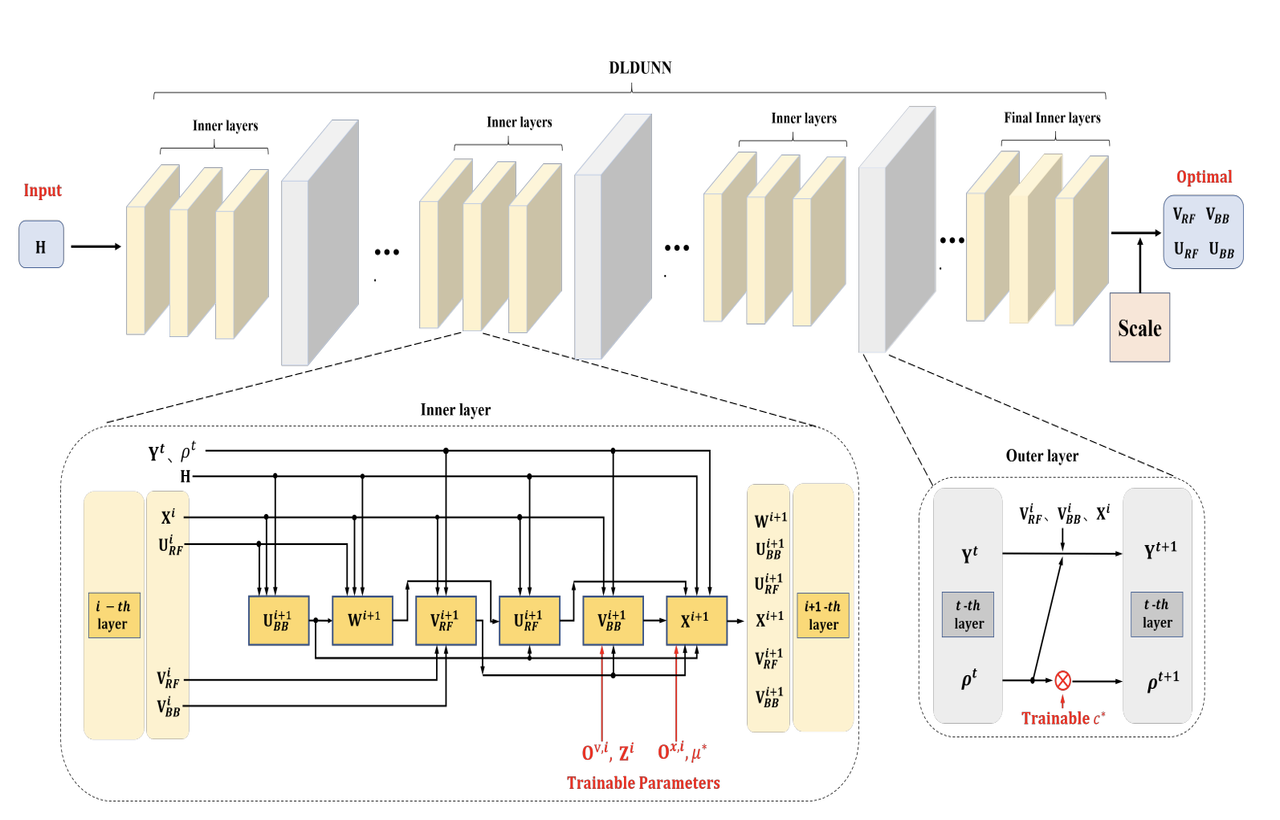
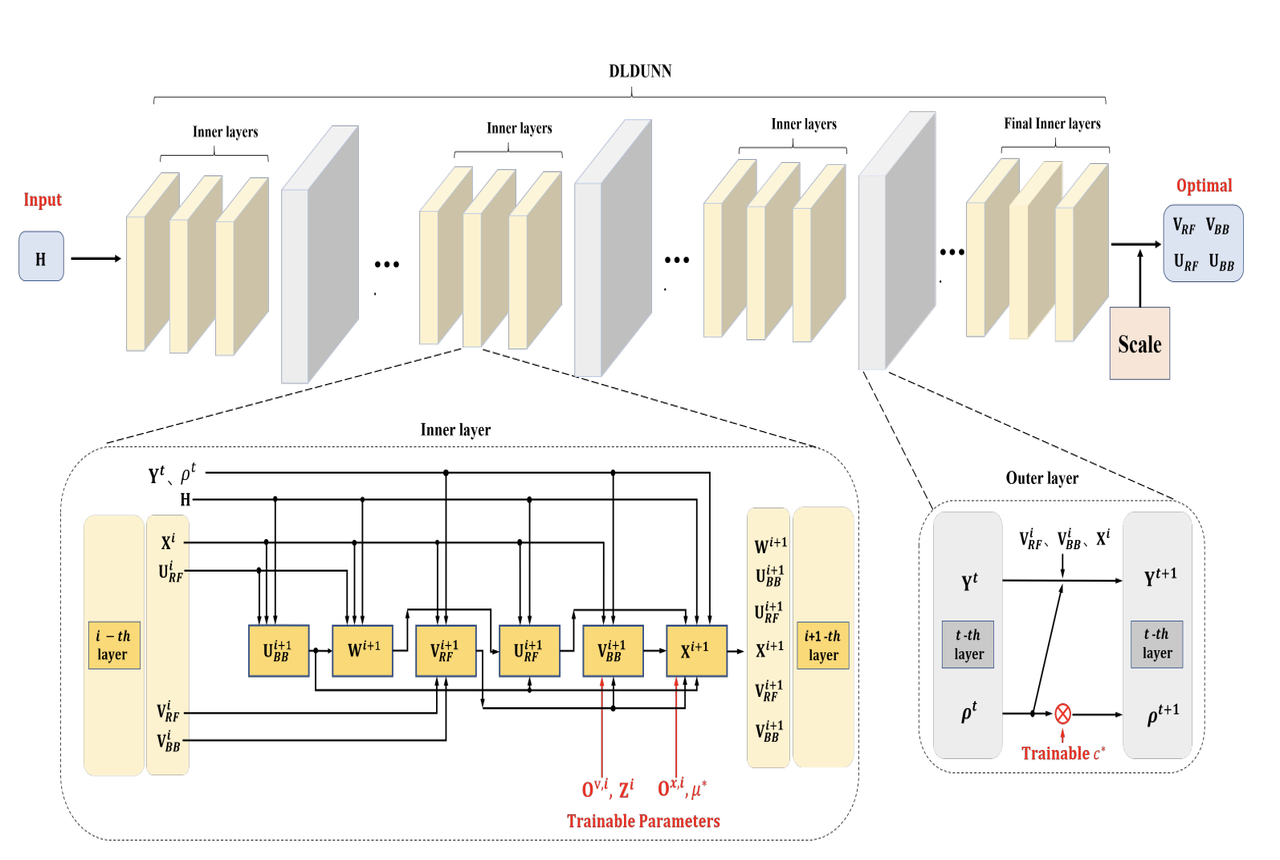
update

Changed region(s): [[0.1562, 0.6402, 0.2812, 0.6707], [0.3438, 0.7012, 0.375, 0.7317]]

diff --git a/index.html b/index.html
@@ -208,8 +208,11 @@
             <div class="col two left">
               <strong>[2] Panoptic NeRF: 3D-to-2D Label Transfer for Panoptic Urban Scene Segmentation </strong>
               <br />
-              <strong><u>Xiao Fu</u>*</strong>, Shangzhan Zhang*, Tianrun Chen, Yichong Lu, Lanyun Zhu, Xiaowei Zhou,
-              Andreas Geiger, <a style='color:#8F8F8F' href="https://yiyiliao.github.io/" target="_blank">Yiyi Liao<sup>†</sup> </a> 
+              <strong><u>Xiao Fu</u>*</strong>, Shangzhan Zhang*, Tianrun Chen, Yichong Lu,
+              <a style='color:#8F8F8F' href="https://lanyunzhu.site/" target="_blank">Lanyun Zhu</a>,
+              <a style='color:#8F8F8F' href="https://xzhou.me/" target="_blank">Xiaowei Zhou</a>,
+              <a style='color:#8F8F8F' href="http://www.cvlibs.net/" target="_blank">Andreas Geiger</a>, <a
+                style='color:#8F8F8F' href="https://yiyiliao.github.io/" target="_blank">Yiyi Liao<sup>†</sup> </a>
               <br />
               <div style="opacity:0.5;"> International Conference on 3D Vision <strong>(3DV)</strong>, 2022</div>
               <a href="https://arxiv.org/pdf/2203.15224.pdf" target="_blank">Paper</a> |
@@ -231,10 +234,19 @@
               <br />
               <strong>[1] Hybrid Precoding Design Based on Dual-Layer Deep-Unfolding Neural Network </strong>
               <br />
-              Guangyi Zhang*, <strong><u>Xiao Fu</u>*</strong>, Qiyu Hu<sup>†</sup>, Yunlong Cai, Guanding Yu
+              <a style='color:#8F8F8F' href="https://scholar.google.com/citations?user=EGRWj9YAAAAJ"
+                target="_blank">Guangyi Zhang*</a>,
+              <strong><u>Xiao Fu</u>*</strong>,
+              <a style='color:#8F8F8F' href="https://scholar.google.com/citations?user=EG0aEm8AAAAJ&hl=en&oi=ao"
+                target="_blank">Qiyu Hu<sup>†</sup></a>,
+              <a style='color:#8F8F8F' href="https://person.zju.edu.cn/en/ylcai"
+              target="_blank">Yunlong Cai</a>,
+              <a style='color:#8F8F8F' href="https://person.zju.edu.cn/en/yuguanding"
+              target="_blank">Guanding Yu</a>
               <br />
               <div style="opacity:0.5;">IEEE International Symposium on Personal, Indoor and Mobile Radio Communications
-                <strong>(PIMRC)</strong>, 2021</div>
+                <strong>(PIMRC)</strong>, 2021
+              </div>
               <a href="https://ieeexplore.ieee.org/document/9569633" target="_blank">Paper</a> |
               <a href="https://github.com/fuxiao0719/PIMRC2021-DLDUNN" target="_blank">Code</a> |
               <a href="assets/pdf/pimrc_dldunn.pdf" target="_blank">Slides</a>
